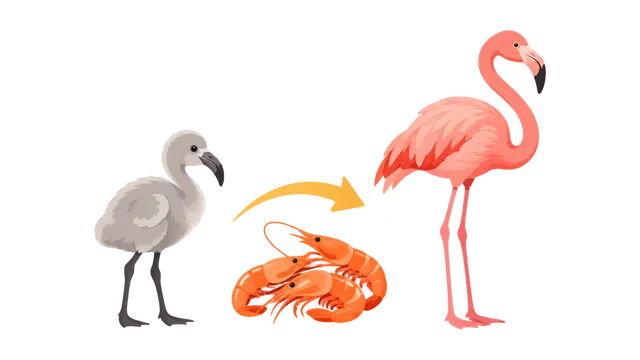
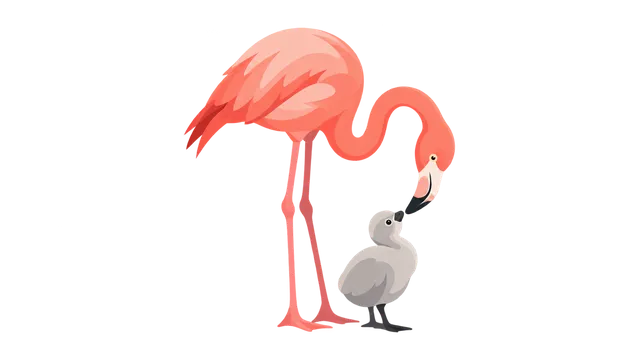
Nahrazení schématu plameňáků přirozenou scénou a zpřesnění ilustrací

Changed region(s): [[0.125, 0.0611, 0.875, 0.9472]]

diff --git a/docs/ilustrace-handoff.md b/docs/ilustrace-handoff.md
@@ -21,11 +21,19 @@ Kategorie Literatura používá výraznou citronově žlutou barvu `#e6dc58` (`-
 
 Vývojová galerie je na `/faakt.io/dev/illustrations-ai/` a zobrazuje všech 321 obrázků ve stylu karet; počet v nadpisu přebírá z manifestu. Obrázky nemají vlastní CSS pozadí; alfa kanál odkrývá gradient karty. Poznámky k významu a odchylkám jsou v `review` každého nového záznamu manifestu.
 
+## Redakční kompozice a náhrada 278
+
+Ilustrace má vzbudit chuť číst výrazným motivem, gestem, atmosférou či kontrastem. Samotná přehlednost ani malý počet objektů nestačí: i jedna šipka mezi oddělenými prvky může změnit obrázek v rovnici vstupů a výsledku. Když myšlenku lépe nese přirozené setkání nebo soudržná scéna, propojí se prvky pohledem, pózou, pohybem či společným prostorem. Diagramy, šipky a vysvětlení principu zůstávají vhodné tam, kde jejich vizuální forma sama dobře funguje jako ilustrace. Rozhoduje celková kompozice a vztah k textu. Pravidlo obsahuje společný STYLE, tři repozitářové skilly, CLAUDE.md, redakční handoff a instalovaná kopie ilustračního skillu.
+
+`278` na výslovnou žádost uživatele nahrazuje schéma mládě–šipka–potrava–dospělý jedinou přirozenou scénou: růžový plameňák sklání hlavu k šedému mláděti. Barvy a vzájemné gesto přitahují pozornost; mechanismus získávání pigmentu zůstává v textu. Nejde o scénu krmení. Metadata nově popisují interakci a společnou kompozici bez posloupnosti či rovnice; původní článek se nemění. Jeden nový požadavek vestavěného image_gen použil `transparent_background=true`, bez dostupného řízení rozměru, kvality nebo ceny generování. Průhledný RGBA WebP 640×360, quality 80, má 21 804 B; alfa okraje jsou 184/184/27/27 px a všechny rohy mají alfu 0. Při 160×90 a 320×180 px byla náhrada porovnaná s originálem na stejném tmavém podkladu. Vrstevnaté tvary křídel přesahují přísný počet ploch, dvojice však tvoří jeden čitelný motiv.
+
+Manifest uchovává přesný prompt, hashe, původní metadata, prompt, review i hash starší verze v `previousVersion`, včetně Git revize. Registrace `278` v kartách zůstává zapnutá. Ověření zahrnuje skutečný alfa kanál, vycentrování, hashe, nezměněné články a ostatní záznamy, `npm test` a `npm run build`. Deterministický repair proběhl pouze v náhledu; jeho obecné návrhy nebyly aplikované. Nové pravidlo samo nezpůsobuje přegenerování dalších přijatých ilustrací.
+
 ## Dávka 271–312 a 413–420
 
-Dalších 50 chybějících ilustrací odpovídá pořadí příspěvků v databázi: po `312` následuje `413`. Vytvořil je vestavěný image_gen s `transparent_background=true`, samostatným požadavkem pro každý příspěvek. Celkem proběhlo 51 generovacích volání: 50 prvních verzí a jedna cílená náhrada `309`. Nástroj neposkytuje nastavení vstupních rozměrů, kvality ani ceny. Původní články a jejich metadata se nemění, starší obrázky zůstávají zachované.
+Dalších 50 chybějících ilustrací odpovídá pořadí příspěvků v databázi: po `312` následuje `413`. Vytvořil je vestavěný image_gen s `transparent_background=true`, samostatným požadavkem pro každý příspěvek. Celkem včetně uživatelem vyžádané náhrady `278` proběhlo 52 generovacích volání: 50 prvních verzí, jedna cílená náhrada `309` a jedna náhrada `278`. Nástroj neposkytuje nastavení vstupních rozměrů, kvality ani ceny. Články se nemění; jedinou následnou změnu metadat v této skupině a uchování původní verze `278` popisuje sekce výše.
 
-Finální soubory jsou RGBA WebP 640×360, quality 80, vycentrované pomocí `fit-image.py`, s průhlednými rohy a odsazením. Velikosti jsou 7 406–47 936 B, celkem 1 284 924 B. Všech 50 ID je zapnutých v produkčních kartách i galerii. Manifest obsahuje přesné odeslané prompty, SHA-256 promptů, původních metadat a finálních souborů, původ generování a individuální významové kontroly. Palety vycházejí z metadat; například čtyřbarevná mapa `302` záměrně používá čtyři barvy. Procedurální renderer ani zlaté otisky se nepoužívají.
+Finální soubory jsou RGBA WebP 640×360, quality 80, vycentrované pomocí `fit-image.py`, s průhlednými rohy a odsazením. Velikosti jsou 7 406–47 936 B, celkem 1 271 256 B. Všech 50 ID je zapnutých v produkčních kartách i galerii. Manifest obsahuje přesné odeslané prompty, SHA-256 promptů, původních metadat a finálních souborů, původ generování a individuální významové kontroly. Palety vycházejí z metadat; například čtyřbarevná mapa `302` záměrně používá čtyři barvy. Procedurální renderer ani zlaté otisky se nepoužívají.
 
 Výběr motivů vychází z titulku i celého textu. `287` doprovází Montesquieuův portrét, `290` samotná galaxie, `296` družice s hodinami a `308` trubková židle. Nejde o úplné vysvětlení mechanismů či dějin. `277` používá přehnanou rovníkovou výduť a schematické vzdálenosti; nejde o přesnou geografickou mapu. `293` má interpretační protáhlý tvar, nikoli potvrzenou podobu ʻOumuamua. `294` ukazuje explozi nad zemí bez kráteru. `302` a `303` doprovázejí matematický vztah bez důkazu a přesné datové stupnice. `306` neuvádí skutečnou historickou cenu chleba. `416` ukazuje pouze čekající dítě a netvrdí zaručený budoucí úspěch. Další omezení jsou u jednotlivých položek manifestu.
 

diff --git a/skills/faakt-illustrations/SKILL.md b/skills/faakt-illustrations/SKILL.md
@@ -20,6 +20,7 @@ Create recognizable, restrained editorial raster artwork from each post's `illus
 
 ### Choose a simple motif according to context
 
+- Make the illustration invite reading through a striking subject, gesture, atmosphere or visual contrast. Immediate readability alone does not make a good editorial image: even one arrow between a few detached objects can turn it into an equation of inputs and outputs. When a natural encounter or coherent scene carries the idea better, integrate the elements through their pose, gaze, movement or shared space instead of arranging ingredients and results. For example, a pink flamingo bending toward a gray chick can raise curiosity without a chick → food → adult diagram. This is not a ban on diagrams, arrows or explaining a principle: retain them when their visual form is itself expressive and appropriate to the article. Judge the whole composition, not just the number of objects or steps.
 - Read the full post and choose according to context: either a recognizable subject or an immediately readable relationship, contrast or interaction. A scientific point can be the image itself when its representation stays simple. If it requires many separate objects, multiple steps or arrows tracing which component implies the next, select one recognizable aspect instead. The text can supply the explanation; the image need not prove or summarize it.
 - A relevant standalone object is sufficient, including for science. A moving ambulance can accompany Doppler effect; a book with a prohibition sign can accompany a banned novel; a pulsar with a simple beam can accompany periodic radio pulses. Do not combine the pulsar, Earth, waveform, magnetic field and observing equipment merely because all relate to the text. These examples guide simplification, not mandatory templates.
 - Prefer one strong motif. Add supporting symbols or objects only when they improve immediate recognition of that selected aspect. Relevance alone is not a reason to draw everything. An isolated particle, instrument or portrait may accompany its actual topic without demonstrating the discovery.

diff --git a/docs/generovani-postu-handoff.md b/docs/generovani-postu-handoff.md
@@ -34,6 +34,8 @@ Povolené hodnoty `category`:
 
 Každý nový příspěvek musí obsahovat objekt `illustration`. Po přečtení titulku i celého obsahu vyber jeden rozpoznatelný aspekt: objekt, osobu, jednoduchý děj nebo stručnou metaforu. Ilustrace doprovází text; nemusí vysvětlit mechanismus, rekonstruovat experiment ani shrnout celou pointu. Jedoucí sanitka stačí k Dopplerovu jevu, kniha se zákazem k zakázanému románu a pulsar s paprskem k pravidelným pulzům. Metadata nejsou seznam všech souvisejících objektů. `secondary_subjects` může zůstat prázdné; doplňky přidávej jen pro lepší rozpoznání vybraného motivu. Zachovej faktickou identitu a čitelnost při 160×90 px, nepřidávej dekorace kvůli rozmanitosti.
 
+Ilustrace má vzbudit chuť číst výrazným motivem, gestem, atmosférou či kontrastem. Samotná přehlednost nestačí: i několik oddělených objektů s jedinou šipkou může působit jako rovnice vstupů a výsledku. Když myšlenku lépe nese přirozené setkání nebo soudržná scéna, propoj prvky pohledem, pózou, pohybem či společným prostorem. Růžový plameňák sklánějící se k šedému mláděti může zaujmout bez schématu mládě + potrava → dospělý. Diagramy, šipky ani vysvětlení principu nejsou zakázané; používej je, pokud jejich vizuální podoba sama dobře funguje jako ilustrace k danému textu. Nerozhoduje jen počet předmětů či kroků.
+
 Metadata popisují námět a jeho uspořádání, nejsou kompletním promptem pro generátor obrázků. Piš jejich textové hodnoty anglicky, jak je běžné v existujících datech. `primary_subject` a další názvy motivů jsou popisné identifikátory ve `snake_case`; nepředpokládej, že jde o klíče rendereru.
 Výchozí kompozice má opticky vycentrovaný hlavní motiv a vyvážené prázdné okraje v celém obrázku. Asymetrii použij jen pro konkrétní význam, interakci či směr děje; nerezervuj prázdný sloupec pro text.
 

diff --git a/CLAUDE.md b/CLAUDE.md
@@ -154,6 +154,8 @@ Doporučený postup:
 
 ## Shared skills for AI agents
 
+- **Ilustrace má vzbudit chuť číst:** výrazným motivem, gestem, atmosférou nebo kontrastem. Samotná přehlednost nestačí; i pár oddělených objektů s jedinou šipkou může působit jako rovnice vstupů a výsledku. Když myšlenku lépe nese přirozené setkání či soudržná scéna, propoj prvky pohledem, pózou, pohybem nebo společným prostorem. Růžový plameňák sklánějící se k šedému mláděti může zaujmout bez schématu mládě + potrava → dospělý. Nejde o zákaz diagramů, šipek či vysvětlení principu: mají své místo, když jejich vizuální forma sama dobře funguje jako ilustrace. Posuzuj celkovou kompozici, nikoli jen počet předmětů či kroků.
+
 - **Vycentrování ilustrací:** hlavní motiv má být opticky uprostřed celého obrázku, s vyváženými prázdnými okraji. Asymetrie má mít konkrétní významový nebo pohybový důvod. Kontroluj skutečně viditelný motiv včetně alfa odsazení; při finálním zmenšení lze odstranit nadbytečný plně průhledný okraj a celý motiv vycentrovat bez ořezu jeho částí. Nerezervuj volný sloupec pro text.
 
 - **Kontrola ilustrací před překreslením:** posuzuj obrázek spolu s titulkem a textem karty. Překreslení musí řešit konkrétní viditelný rozpor nebo nečitelnost; domnělá doslovná interpretace symbolu nestačí. Nejasný počet překrývajících se postav nejprve ověř ve větším náhledu. Spojnice mohou vyjadřovat vztah a šipky výsledek měření, aniž by tvrdily přenos signálu. Nevyžaduj názvy zemí ani popisky jen k zopakování kontextu z textu. Náhradu porovnej s originálem při stejné velikosti a zachovej výraz, děj i čitelnost. První verze `188`, `200` a `212` jsou výslovnou volbou uživatele; pravidla a jejich konkrétní význam popisuje `skills/faakt-illustrations/SKILL.md`.

diff --git a/skills/faakt-metadata-review/SKILL.md b/skills/faakt-metadata-review/SKILL.md
@@ -55,6 +55,7 @@ Preview with `apply`, inspect the diff it describes, then use `--write` for loca
 
 ## Review criteria
 
+- **editorial appeal:** Check whether the composition invites reading through a subject, gesture, atmosphere or contrast, rather than merely translating the text into inputs and outputs. Even one arrow joining a few detached objects can feel like an equation. Prefer a coherent scene or natural encounter when it carries the idea better, such as a pink flamingo bending toward a gray chick instead of chick + food → adult. Diagrams, arrows and illustrated principles remain valid when their visual form is itself expressive and suited to the article; object count and immediate readability alone do not decide this.
 - **concept:** Select one recognizable aspect that accompanies the article. A relevant standalone object, person, simple action or concise metaphor is enough. Do not demand an explanatory relationship or a complete experiment. Read the full post to choose a subject, not to collect everything it mentions.
 - **primary_subject:** Verify the selected subject's identity and factual compatibility. A relevant instrument, particle or author is valid without an illustrated discovery process. Avoid unrelated category symbols and literal misreadings of figurative language.
 - **secondary_subjects:** Optional. Keep a supporting symbol when it helps immediate recognition of the chosen motif; remove even article-related objects when they add a second explanation or unnecessary complexity. Empty arrays are valid.

diff --git a/skills/faakt-create-posts/SKILL.md b/skills/faakt-create-posts/SKILL.md
@@ -72,6 +72,8 @@ Každý nový objekt má přesně pole `id`, `title`, `content`, `category`, `so
 
 ## Ilustrační metadata každého postu
 
+Ilustrace má vzbudit chuť číst výrazným motivem, gestem, atmosférou či vizuálním kontrastem. Samotná přehlednost nestačí: i několik oddělených objektů s jedinou šipkou může působit jako rovnice vstupů a výsledku. Když myšlenku lépe nese přirozené setkání nebo soudržná scéna, propoj prvky pohledem, pózou, pohybem či společným prostorem. Růžový plameňák sklánějící se k šedému mláděti může zaujmout bez schématu mládě + potrava → dospělý. Diagramy, šipky ani vysvětlení principu nejsou zakázané; používej je, pokud jejich vizuální podoba sama dobře funguje jako ilustrace k danému textu. Nerozhoduje jen počet předmětů či kroků.
+
 Všechny následující klíče jsou povinné. Textové hodnoty piš anglicky, názvy motivů jako popisné identifikátory `snake_case`; nejsou to automaticky klíče SVG rendereru.
 
 | Pole | Typ a pravidlo |
